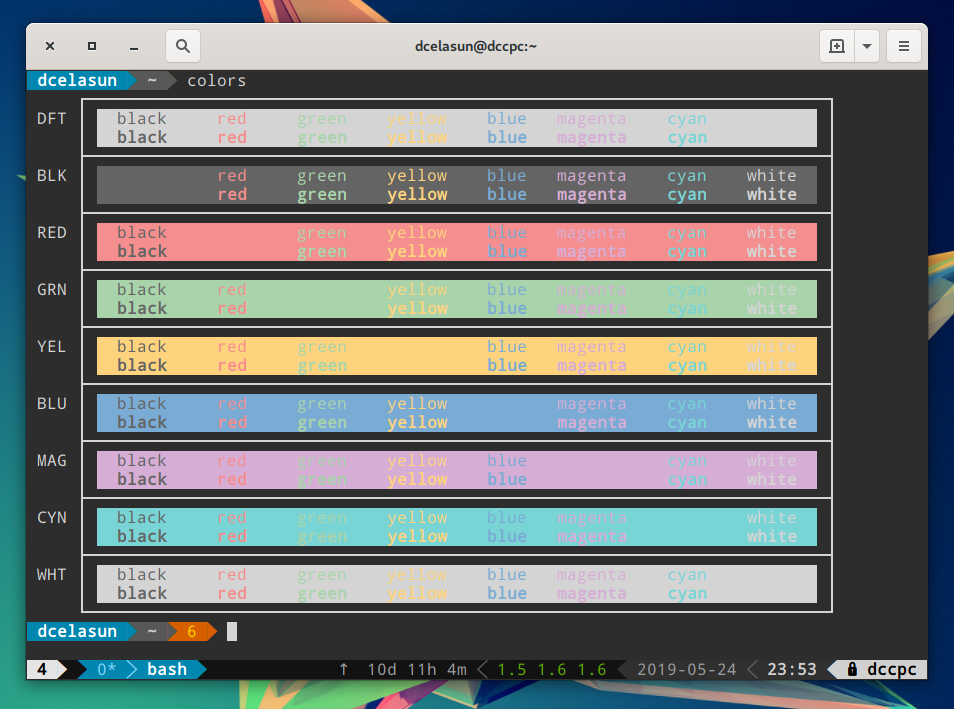
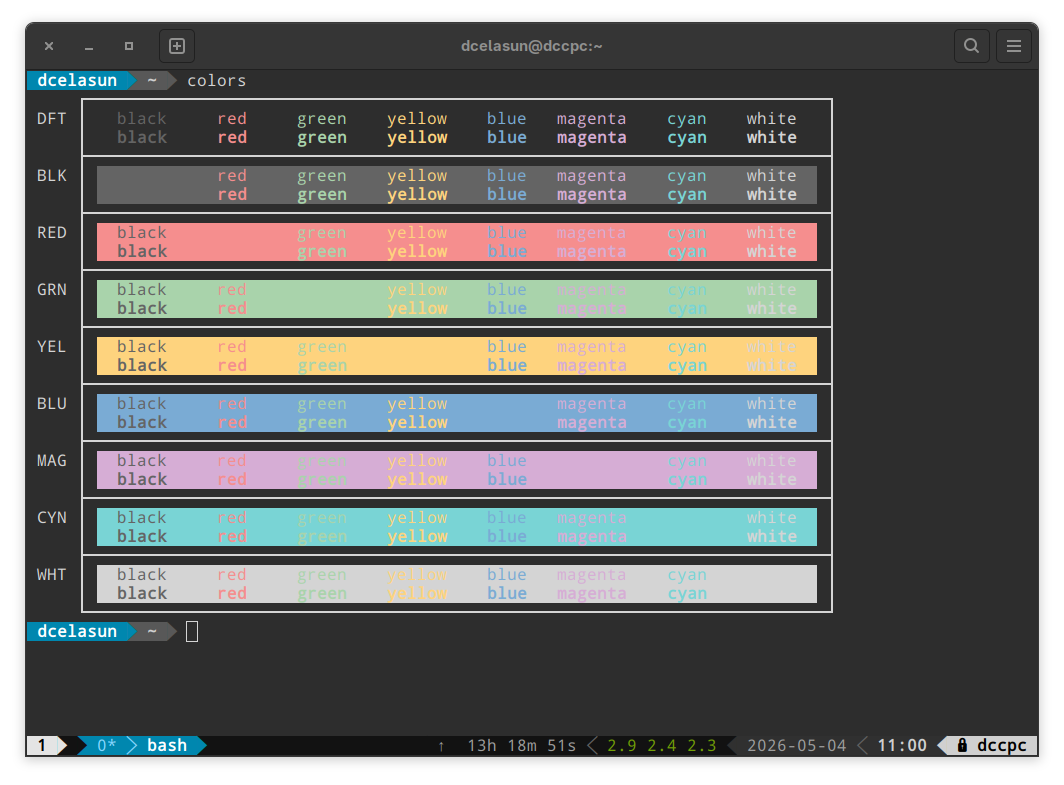
Modernize dotfiles
- Remove X11 stuff, Wayland FTW!
- Add .gitconfig, .bash_profile
- Update screenshots

diff --git a/README.md b/README.md
@@ -1,21 +1,18 @@
 # dotfiles
 
-Various personal configuration files (X, bash, tmux, vim etc.)
+Various personal configuration files (Wayland, bash, tmux, vim, git etc.)
 
 Everything below assumes Arch Linux, but application specific parts should work on other \*nixes with minimal modifications.
+
+I use a pretty barebones Gnome Desktop under Wayland, with default themes and fonts (Adwaita), and almost no extensions.
 
 ## .bashrc
 
 I have a simple `.bashrc` with some useful features:
 
-- Start X by logging into `tty1`, no need for fancy display managers like [GDM](https://wiki.archlinux.org/index.php/GDM) (see `.xinitrc` section below).
 - Tab auto completion for `sudo` and `go`.
 - `vim` as `$EDITOR`.
 - Some useful functions and aliases.
-
-## .xinitrc
-
-I have a very simple `.xinitrc` that sets the XDG session type to X11, tells Qt to use the GTK theme and starts the Gnome session. To use it, simply copy it to your `$HOME` and start X with `startx`.
 
 ## Powerline for Bash
 
@@ -70,8 +67,12 @@ I use the "Chalk" theme from the excellent [Gogh](http://mayccoll.github.io/Gogh
 
 If you followed the steps for powerline, tmux and Gnome Terminal, it should look like this:
 
-![Terminal](/screenshots/terminal.png?raw=true "Perfect.")
+<p align="center">
+    <img src="/screenshots/terminal.png" alt="Screenshot of Gnome Terminal showing fastfetch output">
+</p>
 
 You can also run the `colors` function from `.bashrc` to see a nice grid of your current terminal color scheme:
 
-![Colors](/screenshots/colors.png?raw=true "Color grid")
+<p align="center">
+    <img src="/screenshots/colors.png" alt="Screenshot of Gnome Terminal showing the output of the colors function">
+</p>